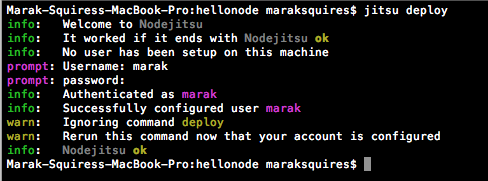
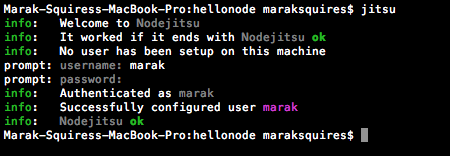
[misc] Updated screen shots, updated copy.

diff --git a/lib/jitsu/utils/index.js b/lib/jitsu/utils/index.js
@@ -184,7 +184,7 @@ utils.validatePackage = function (pkg, dir, callback) {
       
       help = [
         '',
-        'Your package.json file is missing required properties:',
+        'Your package.json file is missing required fields:',
         '',
         names.join(', '),
         '',

diff --git a/README.md b/README.md
@@ -24,7 +24,7 @@ Jitsu requires `npm`, the [node package manager](http://npmjs.org).
  - Integrated multi-level multi-transport logging support via [Winston](http://github.com/indexzero/winston/)
  - Too many to list... seek [further knowledge ](http://github.com/nodejitsu/handbook) or just try it out!
 
-# One line deployment!!!
+# One line deployment
 
      cd /path/to/myapp
      jitsu deploy
